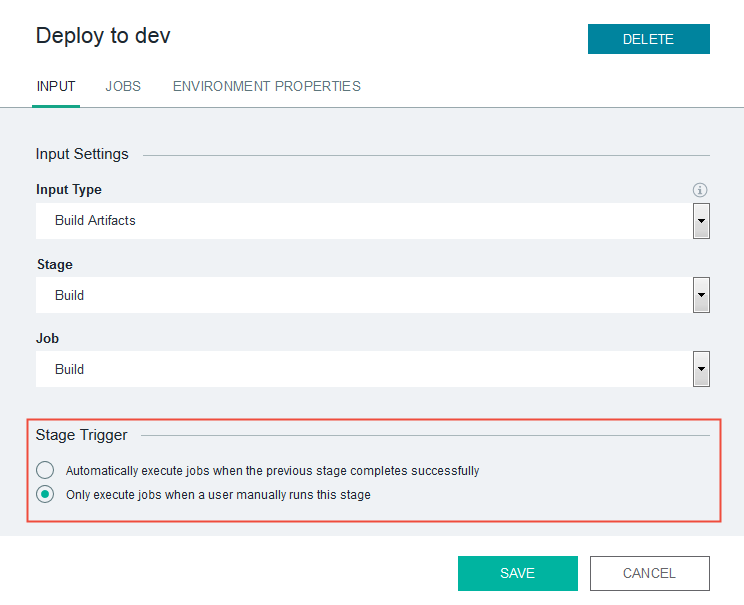
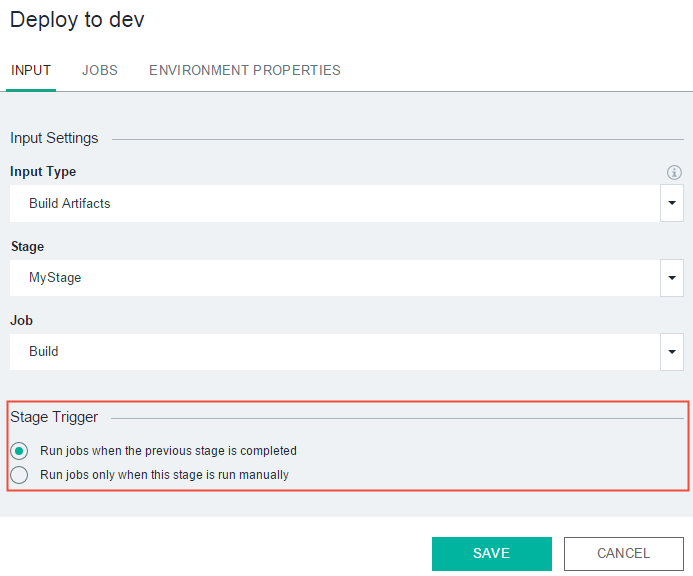
Updating Deploy ref for stage input UI updates. Defect 41900.

diff --git a/docs/deploy/index.md b/docs/deploy/index.md
@@ -1,6 +1,6 @@
 #Build and deploy
 
-Last modified: 9 July 2015
+Last modified: 23 July 2015
 
 The IBM® Bluemix™ DevOps Services Build & Deploy feature, also known as the pipeline, automates the continuous deployment of your projects. In a project's pipeline, sequences of stages retrieve input and run jobs, such as builds, tests, and deployments.
 
@@ -28,7 +28,7 @@ To learn how to add a stage, [see Adding a stage][19].
 
 By default in a stage, builds and deployments are triggered automatically every time changes are delivered to a project's source control repository. Stages and jobs run serially; they enable flow control for your work. For example, you might place a test stage before a deployment stage. If the tests in the test stage fail, the deployment stage won't run. 
 
-You might want tighter control of a specific stage. If you do not want a stage to run every time a change occurs at its input, you can disable the capability. On the **INPUT** tab, in the Stage Trigger section, click **Only execute jobs when a user manually runs this stage**. 
+You might want tighter control of a specific stage. If you do not want a stage to run every time a change occurs at its input, you can disable the capability. On the **INPUT** tab, in the Stage Trigger section, click **Run jobs only when this stage is run manually**. 
 
 
 
